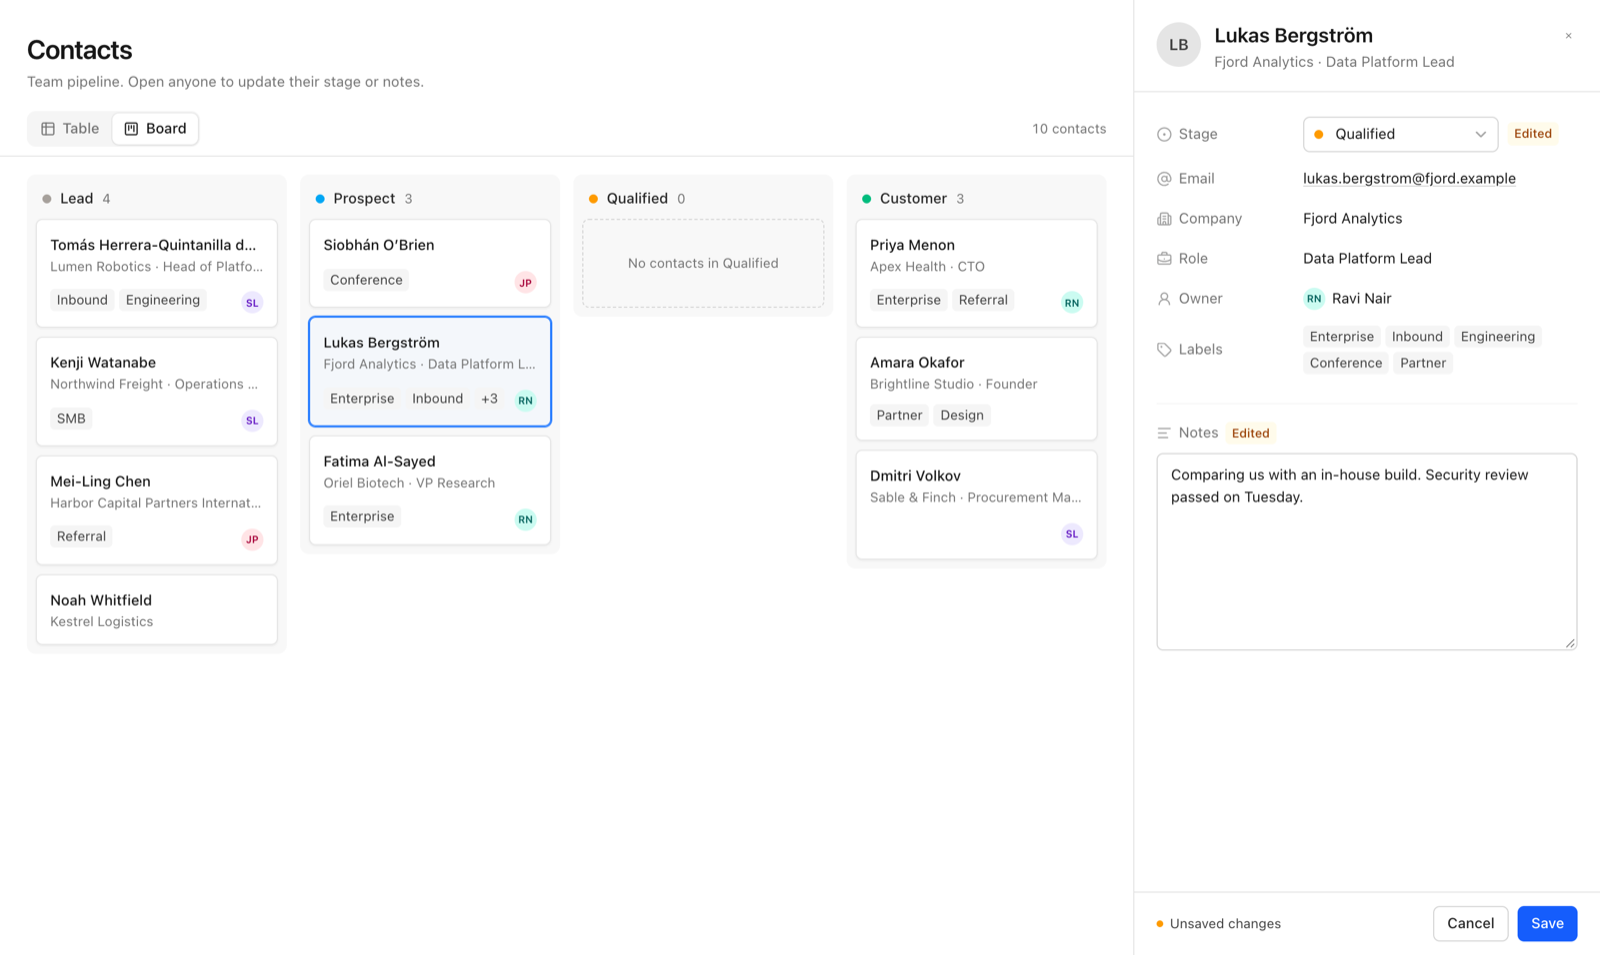
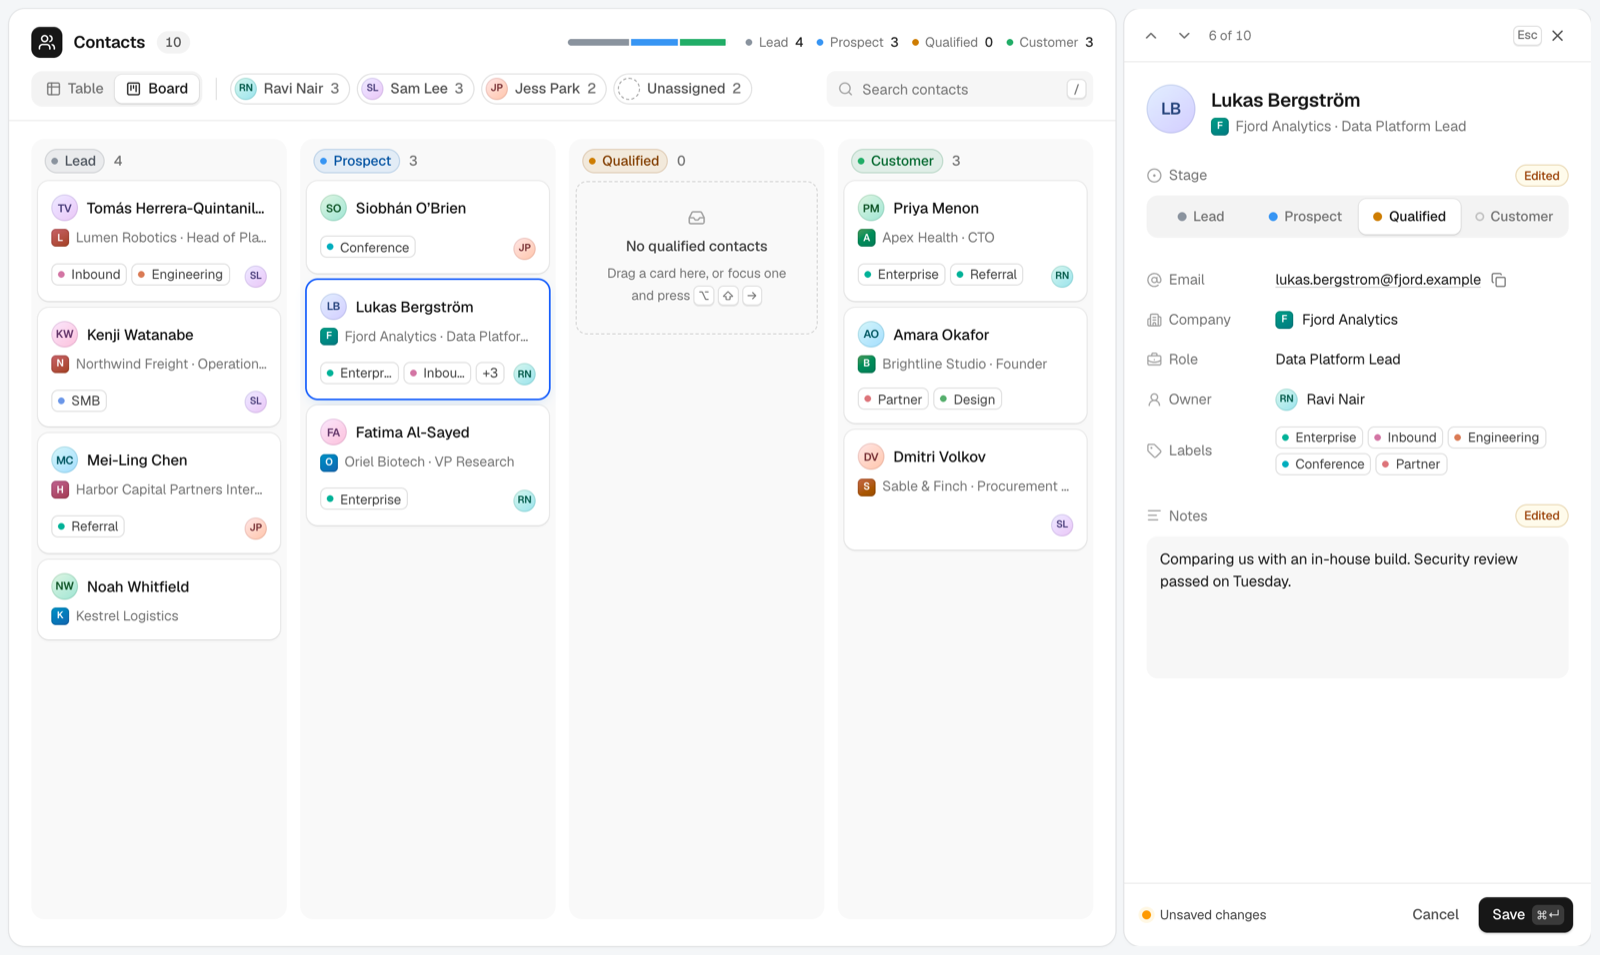
docs: README and media for the v2 interaction design

diff --git a/README.md b/README.md
@@ -1,10 +1,10 @@
 # Contacts: Table and Board
 
-A Notion-style contacts database with two synced views of one dataset. Open any person from the table or the board to change their Stage or Notes, then Save or Cancel.
+A Notion-style contacts database with two synced views of one dataset. Open anyone from the table or the board to change their Stage or Notes, then Save or Cancel. On the board you can also drag a card to a new stage.
 
 **Live preview:** _add link after deploy_
 
-![Editing a contact on the board, saving, and seeing the card land in its new column and the table update](docs/demo.gif)
+![Dragging a card to Qualified, changing a stage in the panel and watching the card travel, filtering by owner, and searching](docs/demo.gif)
 
 ## Run it
 
@@ -19,11 +19,12 @@ npm run check    # lint, typecheck, tests, production build
 
 ## What's built
 
-- **Table view** with all eight fields, a sticky header and Name column, and single-line cells that truncate with a tooltip.
-- **Board view** grouped into Lead, Prospect, Qualified and Customer. Qualified starts empty and stays visible.
-- **One details panel** shared by both views. Stage and Notes are editable; everything else is read-only.
-- **View switch** that keeps the open panel, its unsaved draft, and the selected record. The active view is in the URL.
-- **Return to context:** after Save or Cancel, focus goes back to the record's row or card, a saved record briefly highlights, and a toast offers Undo.
+- **Table** with all eight fields, a sticky header and Name column, and cells that truncate with a tooltip.
+- **Board** grouped into Lead, Prospect, Qualified and Customer. Qualified starts empty and stays visible as a drop target.
+- **One details panel** for both views. Stage is a four-step control; Notes is a text area. Both stay a draft until Save.
+- **Drag a card** to another column, or focus it and press ⌥⇧← / ⌥⇧→. Moves commit at once and offer Undo.
+- **Search and owner filters** that apply to both views, plus a pipeline bar that tracks counts live.
+- **Return to context:** after any change, focus goes back to the record, it briefly tints in its new stage colour, and a toast offers Undo.
 
 | Table                         | Narrower desktop (1024px)                                 |
 | ----------------------------- | --------------------------------------------------------- |
@@ -31,36 +32,35 @@ npm run check    # lint, typecheck, tests, production build
 
 ## Decisions and trade-offs
 
-- **Explicit Save and Cancel instead of Notion's autosave.** The brief asks for it, and Stage plus Notes commit as one change. The cost is handling unsaved drafts. Cancel discards immediately because it is an explicit choice. Esc, the close button, clicking outside, or opening another record ask "Discard unsaved changes?" first, because those can be accidental.
-- **Save is never disabled.** The footer says "No changes" or "Unsaved changes" instead. Disabled buttons lose focus and explain nothing. Saving with no changes just closes.
-- **Save closes the panel.** Closing makes the result visible: the card moves, the row highlights, focus lands on it. The cost is reopening to edit again, which is one click.
-- **A side panel, not a modal.** The list stays visible and clickable at 1280px and wider. Below that the panel overlays with a scrim and the page behind it is inert, so focus can't get lost underneath.
-- **Field placement follows the job of each surface.** The table is for scanning, so it shows every field. Cards are for triage, so they show name, company and role, two labels, and the owner; missing values drop their line. The panel is for reading and editing, so nothing is truncated there.
-- **Colour is reserved for Stage.** Labels are neutral so they never compete with the field the board groups by. Stage text is darker than Notion's pastels to pass 4.5:1 contrast at 12px.
-- **Missing values are explicit.** Tables show a dash with screen reader text such as "No email". The panel says "Empty". A blank cell reads as "still loading".
-- **No drag and drop.** WCAG 2.5.7 requires a non-drag way to move cards anyway, and a drag that commits instantly would undercut the explicit Save the brief asks for. That time went into focus handling and edge cases.
-- **No UI libraries.** A native table, select and textarea cover ten rows and four stages. Focus handling lives in one hook instead of a dependency. The cost is that sorting, filtering or virtualising would need more work.
-
-## How the views stay in sync
-
-There is one normalized store, a `byId` map plus an `order` array, behind a reducer with a single action, `contact/updated`. Both views are read-only projections of it. The board derives its columns from the `STAGES` tuple on every render. A stage change is a field update rather than a move between lists, so a record can't be duplicated or left behind. The panel reads the live record and keeps only edited fields in its draft, so it never shows a stale copy. See `src/store/contacts.ts` and `src/lib/useDetailsPanel.ts`.
+- **Two ways to change a stage, each with its own save model.** The panel is a form, so it uses an explicit Save and Cancel, as the brief asks. Dragging a card is direct manipulation, so it commits on drop with an Undo. I never mix the two inside one surface. A card whose stage has an unsaved edit can't be dragged, because a later Save would silently overwrite the drop.
+- **Cancel discards immediately; implicit exits ask first.** Cancel is an explicit choice. Esc, the close button, the scrim, paging with J/K, or opening another record ask "Discard unsaved changes?", because those can be accidental. Save is never disabled; the footer says "No changes" or "Unsaved changes" instead.
+- **A side panel, not a modal.** At 1280px and wider it docks beside the view, which narrows smoothly and stays clickable. Below that it overlays with a scrim and the page behind is inert.
+- **Motion has a job or it doesn't happen.** Things that move explain where something went: the switcher thumb, a card travelling to its new column, counts rolling, the panel arriving from the edge. Animations are short and interruptible, and focus never animates. Under the OS reduced-motion setting, movement and resizing stop and only fades remain.
+- **Kobra was the visual bar, not the source.** Its components are paid, so I rebuilt the look: tinted stage pills with a same-hue ring, hairline grids, layered shadows, filter chips that join into one track. Colour is reserved for Stage; labels only get a small dot.
+- **Two libraries, for the parts that are easy to get wrong.** Motion handles shared-layout animation and reduced motion. dnd-kit handles pointer, touch and auto-scroll. Everything else is native: table, text area, the stage control as a WAI-ARIA radio group. The cost is bundle size, which grew from about 79KB to 158KB gzipped.
+- **One store, derived views.** A normalized `byId` map and one `contact/updated` action. Board columns, counts, filters and paging are all derived on render, so a record can't be duplicated or left behind. The panel reads the live record and keeps only edited fields in its draft.
+- **Missing values are explicit.** Tables show a dash with screen reader text such as "No email". The panel says "Empty". Text colours measure 4.5:1 or better against their backgrounds.
 
 ## Keyboard
 
-| Key                      | Does                                                            |
-| ------------------------ | --------------------------------------------------------------- |
-| Tab / Enter              | Reach a name and open its panel; focus moves to the panel title |
-| ← → in the view switcher | Switch between Table and Board                                  |
-| ⌘/Ctrl + Enter           | Save                                                            |
-| Esc                      | Close the panel, asking first if there are unsaved changes      |
+| Key                                       | Does                                                       |
+| ----------------------------------------- | ---------------------------------------------------------- |
+| Tab, Enter                                | Reach a name and open its panel                            |
+| ← → in the view switcher or stage control | Switch view, or pick a stage                               |
+| ⌥⇧← / ⌥⇧→ on a card or row                | Move it to the previous or next stage                      |
+| J / K in the panel                        | Next or previous record, in on-screen order                |
+| ⌘/Ctrl + Enter                            | Save                                                       |
+| Esc                                       | Close the panel, asking first if there are unsaved changes |
+| /                                         | Search                                                     |
+| ⌘/Ctrl + Z                                | Undo the last change while its toast is showing            |
 
 ## Left out, and what I'd do next
 
-1. **Change stage from a card** with a small menu, which is faster than opening the panel for one field.
+1. **Load the board and Motion's layout code lazily** to win back most of the extra 79KB.
 2. **Put the open record in the URL** so a panel can be linked and survives reload.
-3. **Search, filter and sort**, plus showing or hiding table columns.
-4. **Drag and drop** between columns, using the same update path and the existing Undo.
-5. **Persist edits** to local storage, and design a true mobile layout below 1024px.
+3. **Reorder within a column**, which would need a per-stage position field.
+4. **Persist edits** to local storage, and design a true mobile layout below 1024px.
+5. **Optional interface sound** for save, drop and undo, off by default.
 
 ## Data
 
